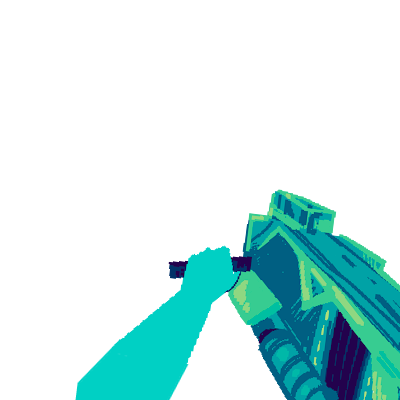
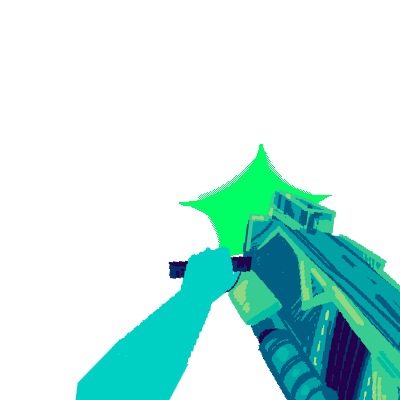
Add tutorial + gunflahses

Changed region(s): [[0.45, 0.36, 0.84, 0.66]]

diff --git a/Assets/Scripts/CharacterControllerScript.cs b/Assets/Scripts/CharacterControllerScript.cs
@@ -82,18 +82,20 @@ public class CharacterControllerScript : MonoBehaviour
         {
             currentGun = (currentGun + 1) % totalGuns;
             GunRenderer.sharedMaterial = gunMaterialsRest[currentGun];
+            imageState = 0;
         }
         else if (scroll < 0) // Scroll down
         {
             currentGun--;
             if (currentGun < 0) currentGun = totalGuns - 1;
             GunRenderer.sharedMaterial = gunMaterialsRest[currentGun];
+            imageState = 0;
         }
 
     }
     private void HandleGun()
     {
-        if (Time.time > lastShot + flashDuration[currentGun] / 2 && imageState == 1) ;
+        if (Time.time > lastShot + flashDuration[currentGun] / 2 && imageState == 1)
         {
             // Flash effects
             GunRenderer.sharedMaterial = gunMaterialsShooting2[currentGun];
